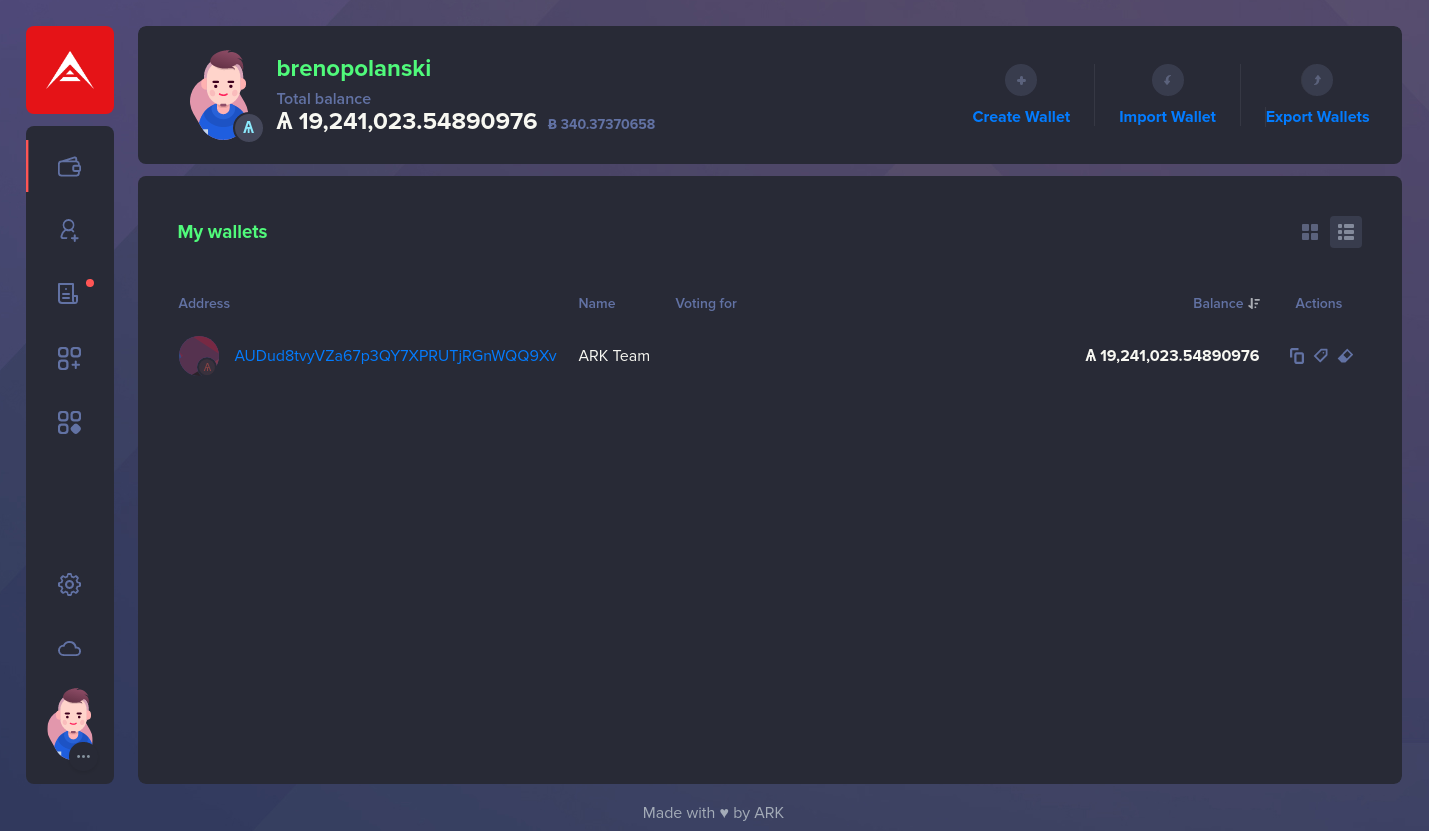
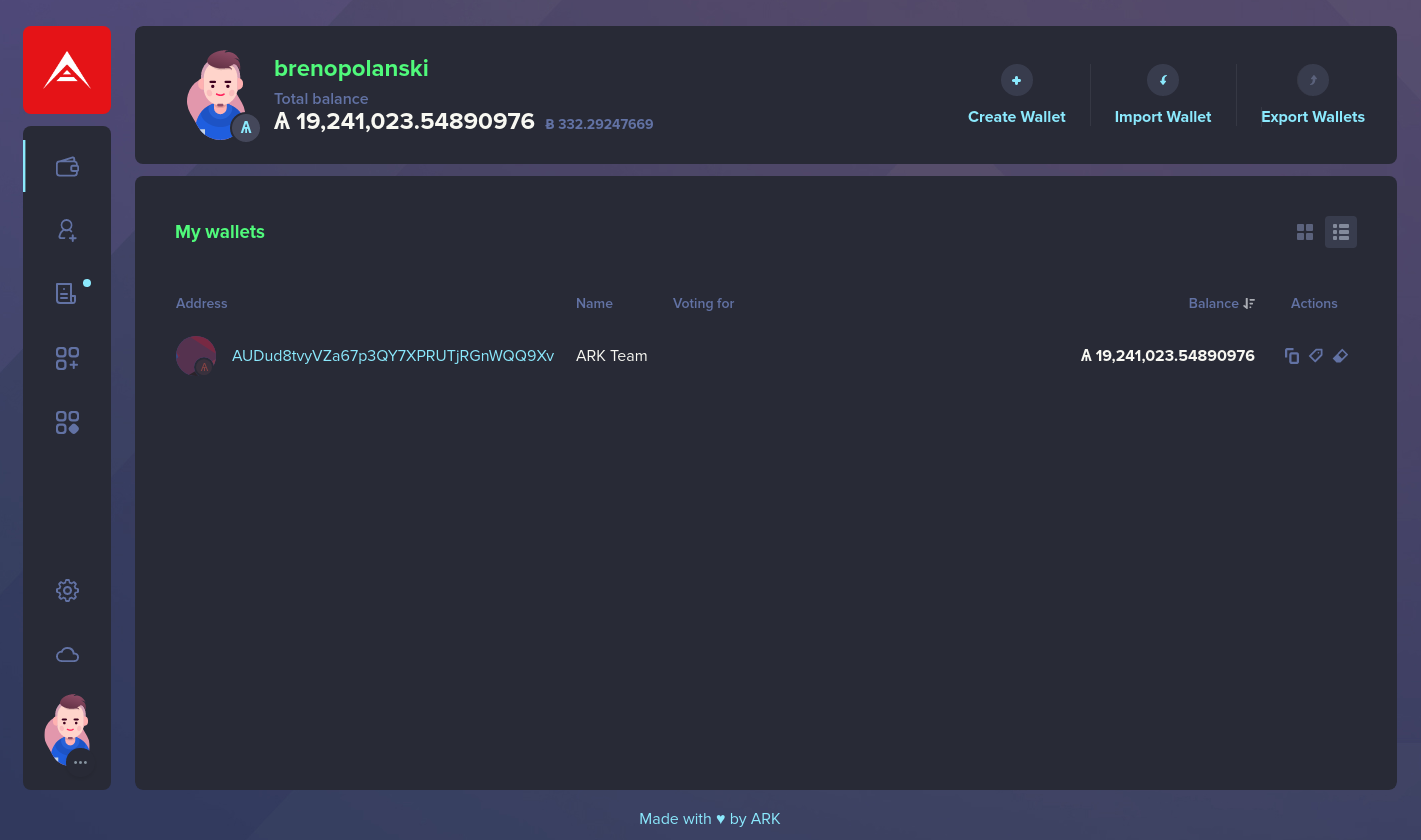
Update theme

diff --git a/src/styles/dracula-theme.css b/src/styles/dracula-theme.css
@@ -1,19 +1,23 @@
-.theme-dark-dracula {
+.theme-dracula {
   --theme-page: #282a36;
   --theme-page-text: #f8f8f2;
   --theme-page-text-light: #6272a4;
   --theme-page-instructions-text: #f8f8f2;
   --theme-page-instructions-background: rgba(255, 255, 255, .2);
   --theme-modal: #282a36;
+
   --theme-intro-gradient-1: rgba(45, 47, 56, 0);
   --theme-intro-gradient-2: rgba(45, 47, 56, .95);
+
   --theme-header-text: #50fa7b;
   --theme-caption-text: #d7d9e7;
   --theme-caption-read: #787fa3;
   --theme-announcements-gradient-1: rgba(45, 47, 56, 0);
   --theme-announcements-gradient-2: rgba(45, 47, 56, .95);
+
   --theme-line-separator: #44475a;
   --theme-wallet-overview-border: #232425;
+
   --theme-table-row-hover: #44475a;
   --theme-transaction-sent: #4b3944;
   --theme-transaction-sent-arrow: #e95c51;
@@ -28,10 +32,12 @@
   --theme-transaction-detail-gradient1: #46466b;
   --theme-transaction-detail-gradient2: #343a53;
   --theme-transaction-detail-arrow: #4d536c;
+
   --theme-wallet-new-selected: #787fa3;
   --theme-wallet-new-unselected: #585c6f;
   --theme-wallet-sign-verify-message-text: #585c6f;
   --theme-wallet-grid-shadow: 0 5px 30px rgba(0, 0, 0, .15);
+
   --theme-feature: #282a36;
   --theme-feature-item-text: #6272a4;
   --theme-feature-item-hover: #44475a;
@@ -39,13 +45,18 @@
   --theme-feature-item-alternative-text: #5d6483;
   --theme-feature-item-selected: #44475a;
   --theme-feature-item-selected-text: #8be9fd;
-  --theme-feature-item-indicator: #ff5555;
+  --theme-feature-item-indicator: #8be9fd;
+
   --theme-secondary-feature: #2e313a;
+
   --theme-button-special-choice: #ff5555;
+
   --theme-heading-background: #282a36;
   --theme-heading-text: #50fa7b;
+
   --theme-chart-price: #f8f8f2;
   --theme-chart-background: #373a43;
+
   --theme-button: #383c4d;
   --theme-button-active: #c5dbed;
   --theme-button-text: #919eca;
@@ -67,8 +78,10 @@
   --theme-input-field-border: #585c6f;
   --theme-modal-footer-button: #e7d28e;
   --theme-modal-footer-button-text: #b3a36f;
+
   --theme-explanation-background: #363844;
   --theme-explanation-text: #f8f8f2;
+
   --theme-settings: #343956;
   --theme-settings-hover: #3a4060;
   --theme-settings-sub: #3f4565;
@@ -79,16 +92,54 @@
   --theme-settings-text-hover: #b3bbe8;
   --theme-settings-switch: #414767;
   --theme-settings-control-title: #dae1e7;
+
   --theme-voting-banner-background: #363844;
   --theme-voting-banner-text: #707698;
   --theme-voting-banner-button: #23252c;
   --theme-voting-banner-button-hover: #2a2b31;
   --theme-voting-banner-button-text: #787fa3;
   --theme-voting-banner-button-text-hover: #787fa3;
+
   --theme-fee-gradient-start: var(--theme-modal);
-  --theme-fee-gradient-end: rgba(0, 124, 255, .2);
+  --theme-fee-gradient-end: rgba(0, 124, 255, 0.2);
   --theme-fee-handler-outside: var(--theme-button-text);
   --theme-fee-handler-inside: var(--theme-modal);
   --theme-fee-range-track: var(--theme-page-text-light);
   --theme-fee-range-track-active: var(--theme-button-text);
+}
+
+#app.theme-dracula {
+  --theme-error: rgb(255, 107, 136) !important;
+}
+
+.theme-dracula .text-blue,
+.theme-dracula a,
+.theme-dracula .WalletButton__create .rounded-full,
+.theme-dracula .WalletButton__import .rounded-full,
+.theme-dracula .WalletButton__load-ledger-wallets .rounded-full {
+  color: #8be9fd !important;
+}
+
+.theme-dracula .WalletGrid__wallet__name {
+  color: #50fa7b !important;
+}
+
+.theme-dracula .a:hover {
+  color: #73ccff !important;
+}
+
+.theme-dracula .text-green {
+  color: #50fa7b !important;
+}
+
+.theme-dracula .text-red {
+  color: #ff5555 !important;
+}
+
+.theme-dracula .text-orange-dark {
+  color: #ffb86c !important;
+}
+
+.theme-dracula .modal-backdrop {
+  background-color: rgba(255, 255, 255, 0.3);
 }

diff --git a/src/index.js b/src/index.js
@@ -1,7 +1,7 @@
 module.exports = {
   getThemes() {
     return {
-      'dark-dracula': {
+      'dracula': {
         cssPath: 'styles/dracula-theme.css',
         darkMode: true
       }
